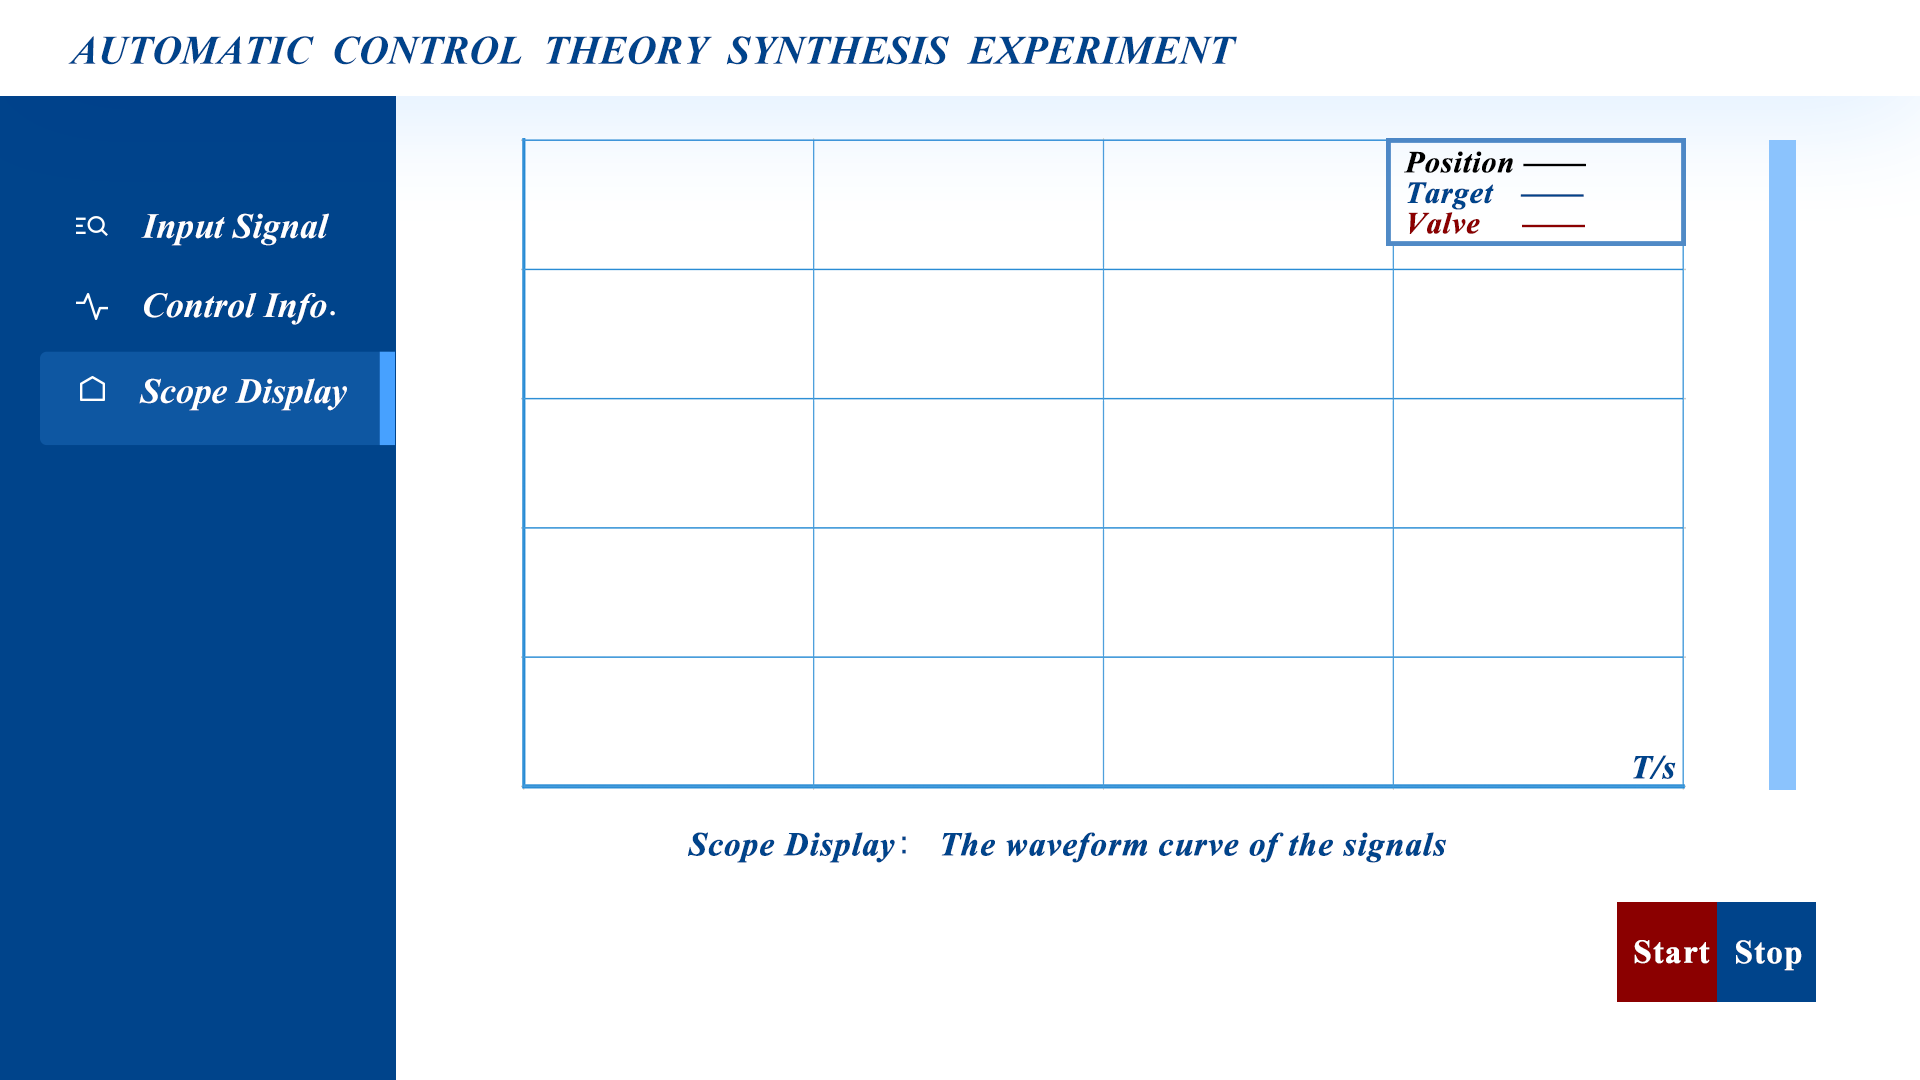
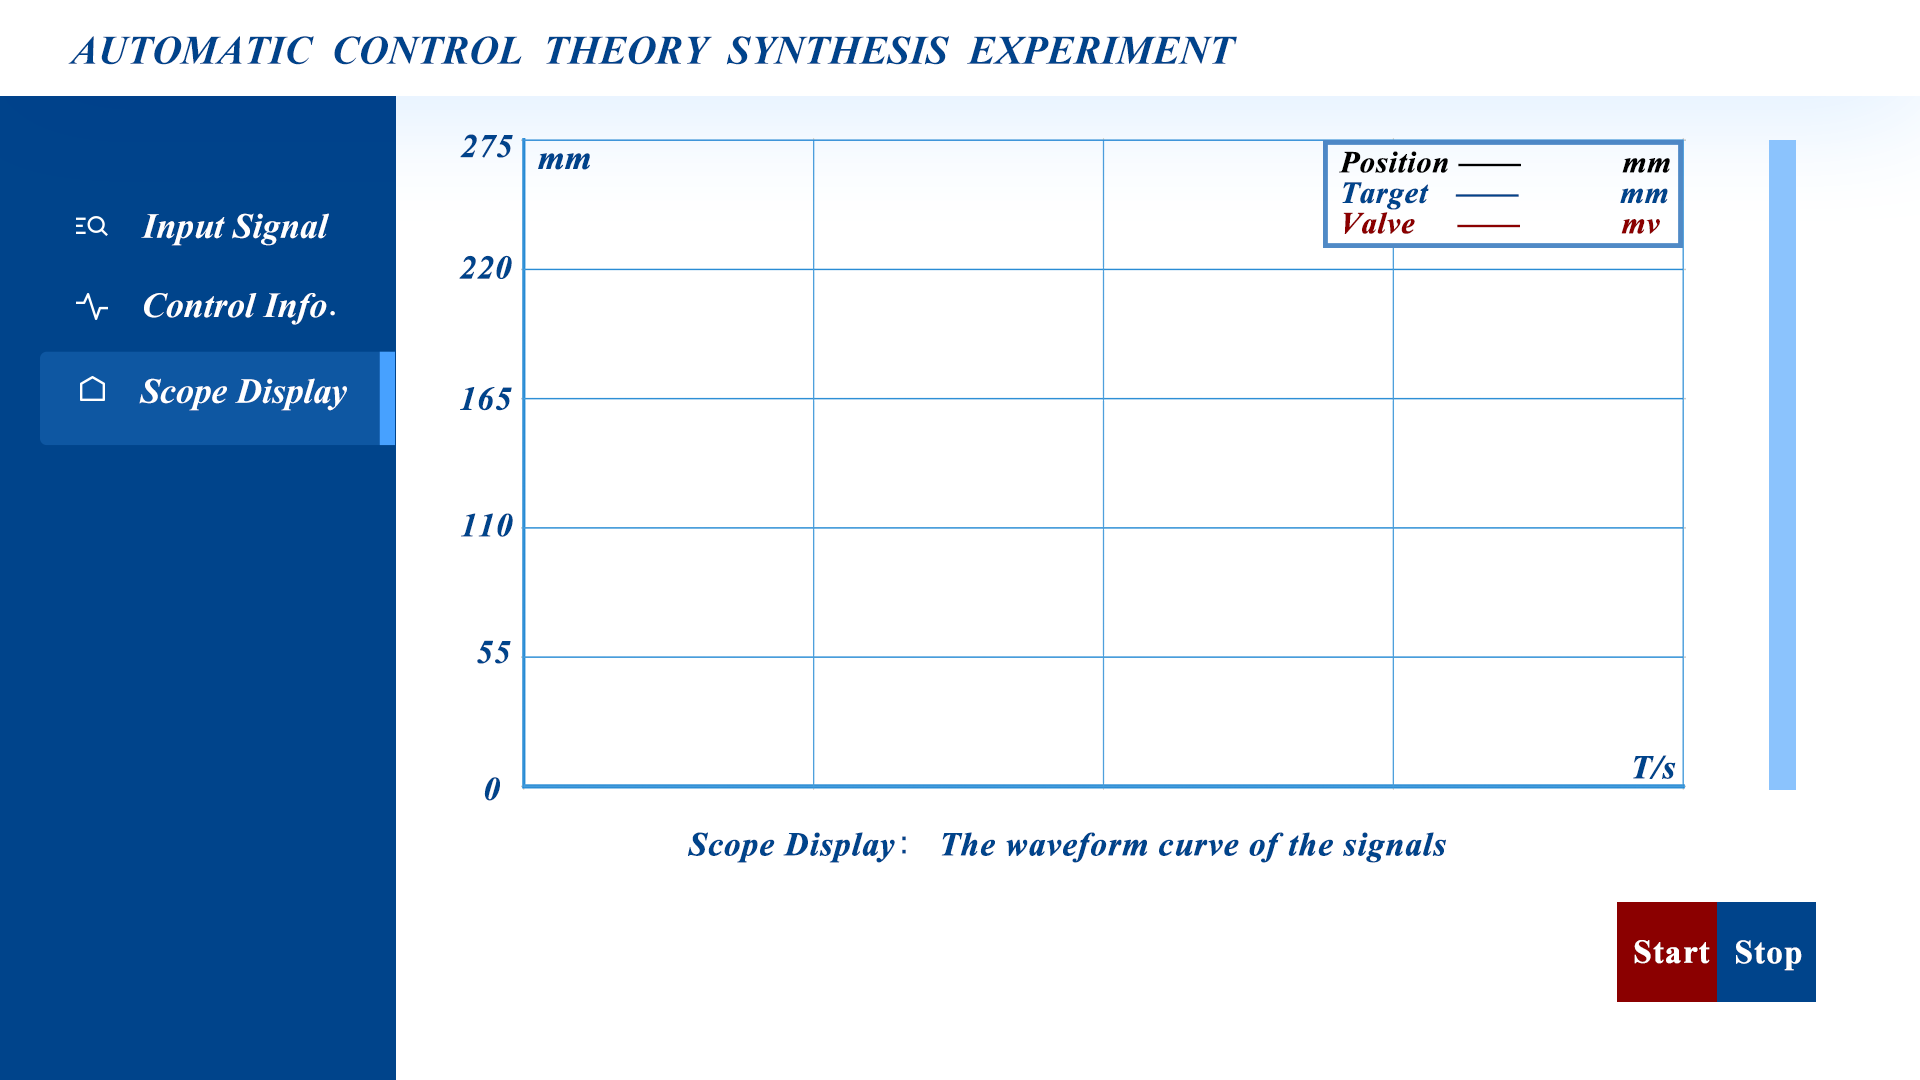
added pics

diff --git a/System Function Lib/GameLoop.cpp b/System Function Lib/GameLoop.cpp
@@ -11,6 +11,12 @@ const string APPTITLE = "DirectX Project <Rename Me>";
 const int SCREENW = 1920;
 const int SCREENH = 1080;
 const bool FULLSCREEN = true;
+double sine_steady_state_error;
+double last_reference;
+double now_reference;
+double amplitude;
+double maximum = 0;
+double overshoot;
 
 DWORD screentimer = timeGetTime();
 
@@ -145,7 +151,7 @@ void Game_Run(HWND window)
 	//clear screen
 	d3ddev->Clear(0, NULL, D3DCLEAR_TARGET | D3DCLEAR_ZBUFFER, D3DCOLOR_XRGB(0, 0, 100), 1.0f, 0);
 	//get cusor point
-	GetCursorPos(&point);
+	//GetCursorPos(&point);
 
 
 	//*** insert game code here ***
@@ -179,12 +185,12 @@ void Game_Run(HWND window)
 			}
 			else if (target_mode == 2)
 			{
-				target_data = (int)((700 - Bar.coord_y) * 4096 / lenth);
+				target_data = (int)((780 - Bar.coord_y) * 4096 / lenth);
 				output_data = pid.PID_control(target_data, read_data);
 			}
 			else if (target_mode == 3)
 			{
-				output_data = (int)((700 - Bar.coord_y) * 4096 / lenth);
+				output_data = (int)((780 - Bar.coord_y) * 4096 / lenth);
 			}
 
 
@@ -192,6 +198,15 @@ void Game_Run(HWND window)
 			output_list.append(output_data);
 			read_list.append(read_data);
 			target_list.append(target_data);
+			double instant_error = target_data - read_data;
+			sine_steady_state_error = abs(instant_error)*275.0/4095.0;
+			if (sine_steady_state_error < 10 && caltr)
+			{
+				Tr = timeGetTime() - tr;
+				caltr = false;
+			}
+
+
 		}
 		else
 			output_data = 1800;
@@ -278,9 +293,9 @@ void Game_Run(HWND window)
 			Start_Button.frame = 0;
 			Stop_Button.frame = 0;
 			target_mode = 1;
-			sin_frequency = 0.22;
+			sin_frequency = 0.25;
 			sincounter = 0;
-			pid.reset(5.3,2,10);
+			pid.reset(5,2,10);
 			running = false;
 		}
 		else if (Sin2_Button.Mouse_over() && Left_Click_Once())
@@ -297,7 +312,7 @@ void Game_Run(HWND window)
 			target_mode = 1;
 			sin_frequency = 0.21;
 			sincounter = 0;
-			pid.reset(5.3,2,10);
+			pid.reset(5,2,10);
 			running = false;
 		}
 		else if (Sin3_Button.Mouse_over() && Left_Click_Once())
@@ -314,7 +329,7 @@ void Game_Run(HWND window)
 			target_mode = 1;
 			sin_frequency = 0.20;
 			sincounter = 0;
-			pid.reset(5.3,2,10);
+			pid.reset(5,2,10);
 			running = false;
 		}
 		else if (Sin4_Button.Mouse_over() && Left_Click_Once())
@@ -331,7 +346,7 @@ void Game_Run(HWND window)
 			target_mode = 1;
 			sin_frequency = 0.15;
 			sincounter = 0;
-			pid.reset(5.1,2,9);
+			pid.reset(5,2,9);
 			running = false;
 		}
 		else if (Sin5_Button.Mouse_over() && Left_Click_Once())
@@ -363,7 +378,7 @@ void Game_Run(HWND window)
 			Start_Button.frame = 0;
 			Stop_Button.frame = 0;
 			target_mode = 2;
-			pid.reset(1.5,1,1);
+			pid.reset(0.7,5,1.5);
 			running = false;
 		}
 		else if (Valve_Button.Mouse_over() && Left_Click_Once())
@@ -404,26 +419,26 @@ void Game_Run(HWND window)
 		}
 		if (target_mode == 1)
 		{
-			Bar.coord_y = 700 - (read_data * lenth / 4096);
+			Bar.coord_y = 780 - (read_data * lenth / 4096);
 		}
 		else
 		{
-			if (Mouse_Button(0) && point.x <= 1815 && point.x >= 1790 && running)
+			GetCursorPos(&point);
+			if (Mouse_Button(0) && point.x <= 1800 && point.x >= 1720 && running)
 			{
+				overshoot = 0.1 + 0.1 * (Bar.coord_y - point.y) / 1080.0;
+				tr = timeGetTime();
+				caltr = true;
 				Bar.coord_y = point.y - 32;
-				if (Bar.coord_y <= 160)
-					Bar.coord_y = 160;
-				if (Bar.coord_y >= 700)
-					Bar.coord_y = 700;
+				if (Bar.coord_y <= 180)
+					Bar.coord_y = 180;
+				if (Bar.coord_y >= 780)
+					Bar.coord_y = 780;
+
 			}
 		}
 		break;
 	}
-
-
-
-
-
 
 	//output cycle
 	if (timeGetTime() > outputtimer + output_cycle)
@@ -481,10 +496,12 @@ void Game_Run(HWND window)
 			std::ostringstream p2_sf;
 			std::ostringstream p2_of;
 			std::ostringstream p3_target;
+			std::ostringstream p3_time;
+			std::ostringstream p4_time;
 			switch (background)
 			{
 			case 1:
-				p1_sin << "0.22   0.21   0.20   0.15   0.10";
+				p1_sin << "0.25   0.21   0.20   0.15   0.10";
 				FontPrint(TNR45, 560, 331, 590, 250, p1_sin.str(), D3DCOLOR_XRGB(255, 255, 255));
 				break;
 			case 2:
@@ -506,12 +523,17 @@ void Game_Run(HWND window)
 				FontPrint(TNR45, 1100, 504, 300, 250, p2_of.str(), D3DCOLOR_XRGB(139, 0, 0));
 				break;
 			case 3:
-				p2_read << read_data;
-				FontPrint(TNR32, 1590, 150, 300, 250, p2_read.str(), D3DCOLOR_XRGB(0, 0, 0));
-				p3_target << target_data;
-				FontPrint(TNR32, 1590, 178, 300, 250, p3_target.str(), D3DCOLOR_XRGB(0, 68, 139));
+				p2_read << ( 275 * read_data / 4095.0);
+				FontPrint(TNR32, 1530, 150, 300, 250, p2_read.str(), D3DCOLOR_XRGB(0, 0, 0));
+				p3_target << (275 * target_data / 4095.0);
+				FontPrint(TNR32, 1530, 178, 300, 250, p3_target.str(), D3DCOLOR_XRGB(0, 68, 139));
 				p2_out << output_data;
-				FontPrint(TNR32, 1590, 208, 300, 250, p2_out.str(), D3DCOLOR_XRGB(139, 0, 0));
+				FontPrint(TNR32, 1530, 208, 300, 250, p2_out.str(), D3DCOLOR_XRGB(139, 0, 0));
+				p3_time << "Step responce specifications: overshoot-"<< "NA" << "\n"<<"Tr = " << "NA" << "ms" << " Ts = " << "NA"  << "ms" ;
+
+				FontPrint(TNR32, 590, 908, 600, 500, p3_time.str(), D3DCOLOR_XRGB(0, 0, 0));
+				p4_time << "Sine responce specifications: steady_state_error = "<<sine_steady_state_error<<"mm";
+				FontPrint(TNR32, 590, 998, 600, 500, p4_time.str(), D3DCOLOR_XRGB(0, 0, 0));
 				break;
 			}
 
@@ -522,9 +544,9 @@ void Game_Run(HWND window)
 			FontPrint(TNR45, SCREENW - 150, 0, 300, 250, fps_out.str(), D3DCOLOR_XRGB(0, 0, 0));
 
 			//mouse pos
-			std::ostringstream mouse_pos;
+			/*std::ostringstream mouse_pos;
 			mouse_pos << "X：" << point.x << " Y:" << point.y;
-			FontPrint(TNR45, SCREENW - 300, 50, 300, 250, mouse_pos.str(), D3DCOLOR_XRGB(0, 0, 0));
+			FontPrint(TNR45, SCREENW - 300, 50, 300, 250, mouse_pos.str(), D3DCOLOR_XRGB(0, 0, 0));*/
 
 			//stop drawing
 			spriteobj->End();

diff --git a/System Function Lib/Global_variable.h b/System Function Lib/Global_variable.h
@@ -21,6 +21,7 @@ unsigned long m_ch1Flag;
 unsigned long m_ADctrlWord;
 unsigned long m_ADoverTime;
 
+
 //scanner
 //read the data from the device ; generate sin wave
 DWORD scantimer = timeGetTime();
@@ -30,7 +31,7 @@ int scanner_cycle = 4;
 double scanner_frequency = (1000.0 / (scanner_cycle + 1));//Hz
 int sincounter = 0;
 double sin_frequency = 0.25; // Hz
-int sin_amplitude = 1000;
+int sin_amplitude= 1000;
 bool running = false;
 
 //target data
@@ -55,6 +56,10 @@ int origonx = 522;
 int origony = 786;
 int timeaxis = 1000;
 
+//calculations
+int Tr;
+DWORD tr;
+int caltr = false;
 
 //fps display
 DWORD fpstimer = timeGetTime();
@@ -88,4 +93,4 @@ BASIC_SPRITE Valve_Button(true, false, 1, 1432, 300, 1432, 300, 0, 2, 270, 100, 
 //Background 3
 BASIC_SPRITE Start_Button(false, false, 1, 1616, 900, 1616, 900, 0, 2, 100, 100, 1, 0, 0, 0, 0, 0, 1);
 BASIC_SPRITE Stop_Button(false, false, 1, 1216, 900, 1716, 900, 0, 2, 100, 100, 1, 0, 0, 0, 0, 0, 1);
-BASIC_SPRITE Bar(false, false, 1, 1780, 460, 1780, 460, 0, 1, 124, 124, 0.5, 0, 0, 0, 0, 1);
+BASIC_SPRITE Bar(false, false, 1, 1780, 460, 1750, 460, 0, 1, 124, 124, 0.5, 0, 0, 0, 0, 1);
